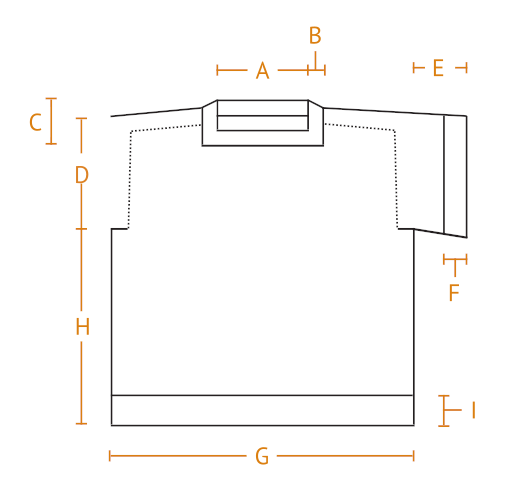
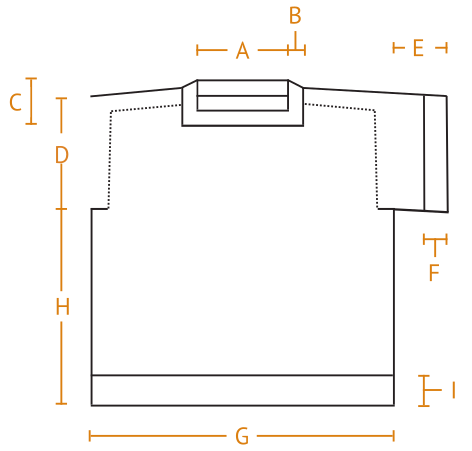
regra da pala e atualizacao das imgs

Changed region(s): [[0.0, 0.0, 0.9788, 0.9933], [0.8008, 0.0931, 0.9195, 0.1552], [0.9195, 0.0931, 0.9492, 0.1242]]

diff --git a/dev/js/formMedidas.js b/dev/js/formMedidas.js
@@ -93,20 +93,26 @@ function montarParametrosInfoEstiloMedida(){
 }
 
 function setEstilo(urlParams){
-  const divisao = urlParams.get('divisao');
+
   const pala = urlParams.get('pala');
   const gola = urlParams.get('gola');
   const manga = urlParams.get('manga');
   const barra = urlParams.get('barra');
+  var divisao;
 
-  const textoEstilo = getTextoEstilo(divisao, gola, manga, barra);
+  if (pala == "contiguos"){
+    divisao = urlParams.get('divisao');
+  }
+
+
+  const textoEstilo = getTextoEstilo(pala, divisao, gola, manga, barra);
   const imgEstilo = getImgEstilo(pala, gola, manga);
 
   $('.modelo_selecionado').empty();
   $('.modelo_selecionado').html(textoEstilo + imgEstilo);
 }
 
-function getTextoEstilo(divisaoInput, golaInput, mangaInput, barraInput){
+function getTextoEstilo(palaInput, divisaoInput, golaInput, mangaInput, barraInput){
 
   var gola, manga, barra;
 
@@ -132,7 +138,9 @@ function getTextoEstilo(divisaoInput, golaInput, mangaInput, barraInput){
     barra = 'Cordões de Tricô';
   }
 
-  return "<p>Pala raglan em malha com "
+  return "<p>Pala "
+    + palaInput
+    + " em malha com "
     + divisaoInput + " pontos de divisão, "
     + " gola " + gola
     + ", mangas " + manga

diff --git a/dev/js/formEstilo.js b/dev/js/formEstilo.js
@@ -44,7 +44,14 @@ function montarParametrosInfoEstilo(){
 }
 
 function getDivisao(){
-  return $("#divisao").val();
+  const urlParams = new URLSearchParams(window.location.search);
+  const pala = urlParams.get('pala');
+
+  if (pala == "contiguos"){
+    return $("#divisaoContiguos").val();
+  }
+  return $("#divisaoRaglan").val();
+
 }
 
 function setDivisao(urlParams){
